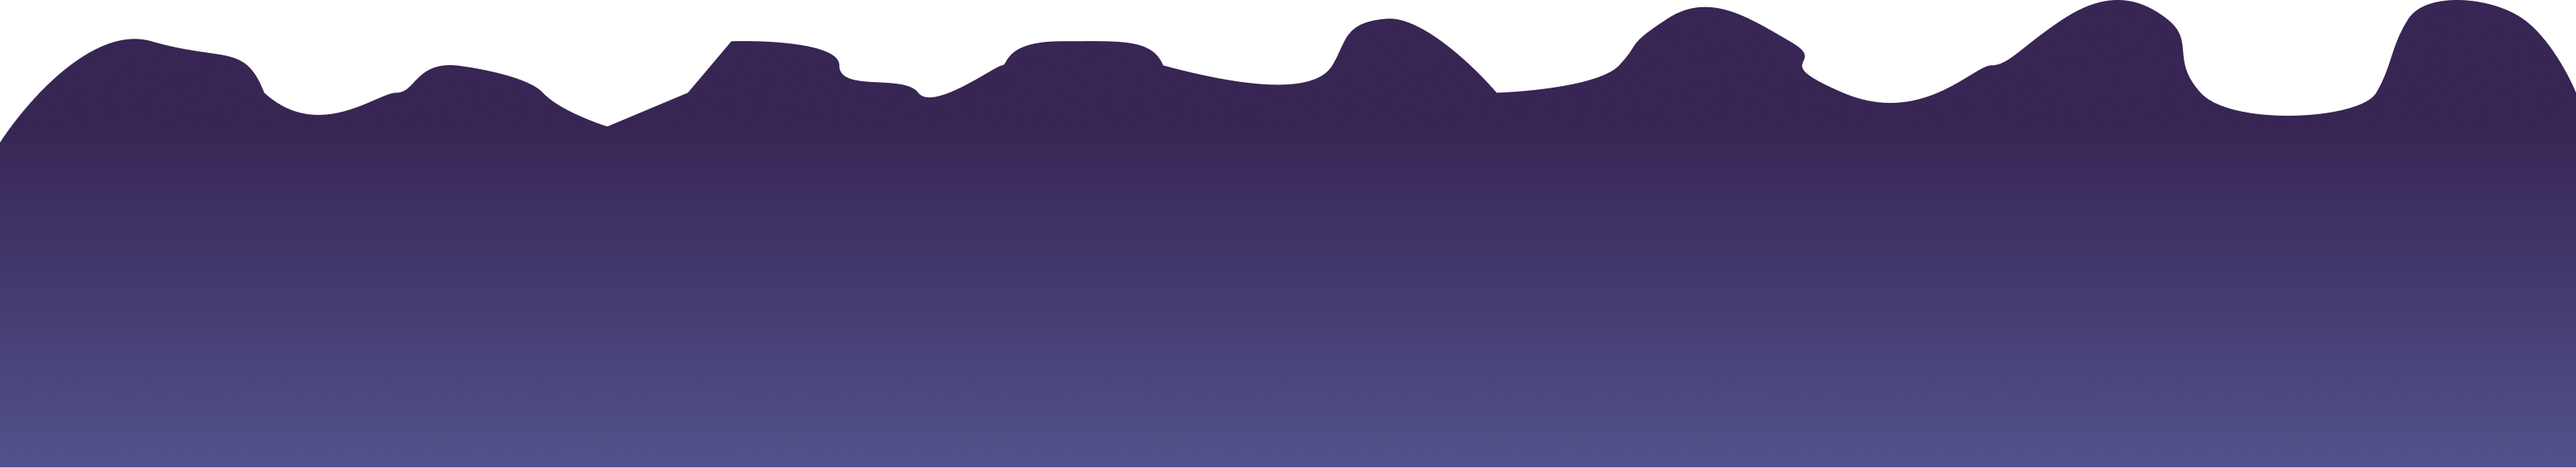
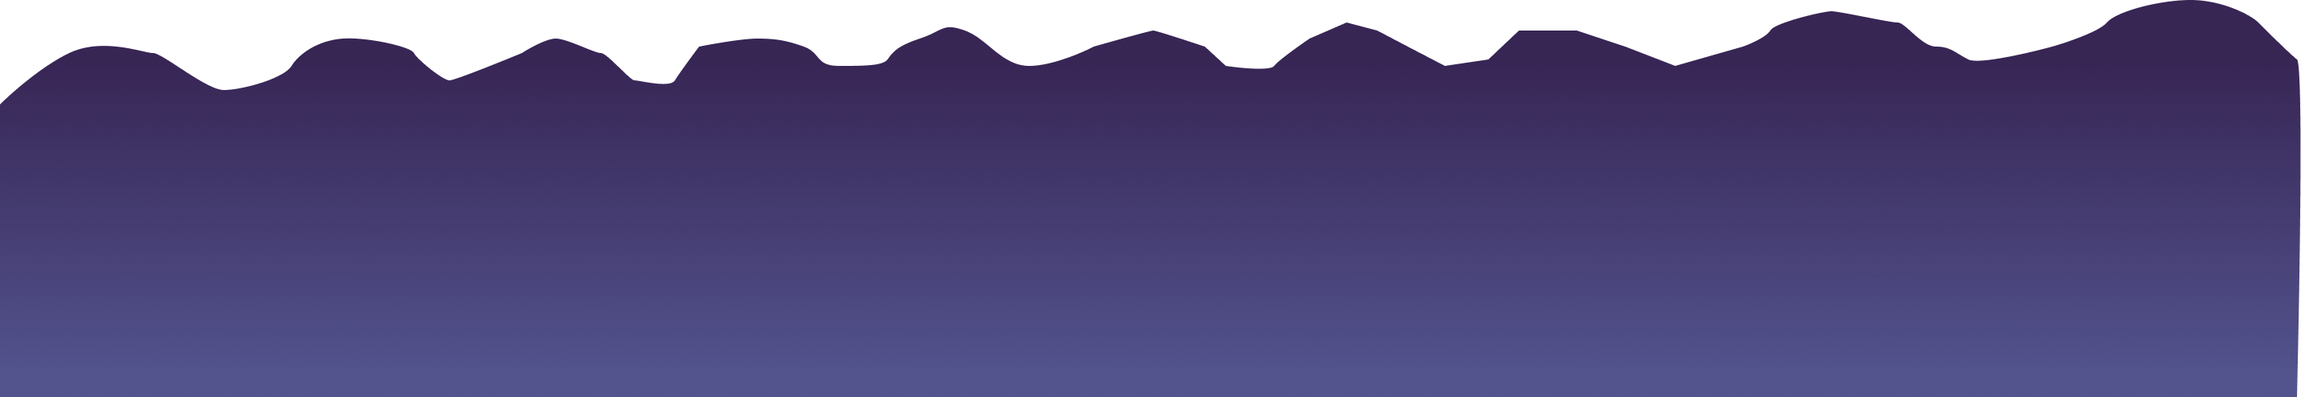
change the waves, correct the animation and let the waves move from side to side

diff --git a/public/style.scss b/public/style.scss
@@ -28,26 +28,26 @@
             .wave{
                 position: absolute;
                 bottom: 0;
-                width: 200%;
-                height: 100px;
-                opacity: 0.5;
+                width: 800px;
             }
             .wave1{
                 animation: wave1 5s infinite linear;
+                top: 320px;
             }
             .wave2{
                 animation: wave2 10s infinite linear;
-                opacity: 0.6;
+                left: -600px;
+                top: 320px;
             }
         }
         @keyframes wave1{
             0% { transform: translateX(0); }
-            100% { transform: translateX(-50%); }
+            100% { transform: translateX(-80%); }
         }
         
         @keyframes wave2{
-            0% { transform: translateX(50%); }
-            100% { transform: translateX(0); }
+            0% { transform: translateX(0); }
+            100% { transform: translateX(80%); }
         }
     }
     .content{

diff --git a/public/style.css b/public/style.css
@@ -31,31 +31,31 @@
 .wrap .loading .circle .wave {
   position: absolute;
   bottom: 0;
-  width: 200%;
-  height: 100px;
-  opacity: 0.5;
+  width: 800px;
 }
 .wrap .loading .circle .wave1 {
   animation: wave1 5s infinite linear;
+  top: 320px;
 }
 .wrap .loading .circle .wave2 {
   animation: wave2 10s infinite linear;
-  opacity: 0.6;
+  left: -600px;
+  top: 320px;
 }
 @keyframes wave1 {
   0% {
     transform: translateX(0);
   }
   100% {
-    transform: translateX(-50%);
+    transform: translateX(-80%);
   }
 }
 @keyframes wave2 {
   0% {
-    transform: translateX(50%);
+    transform: translateX(0);
   }
   100% {
-    transform: translateX(0);
+    transform: translateX(80%);
   }
 }
 .wrap .content .fill {
